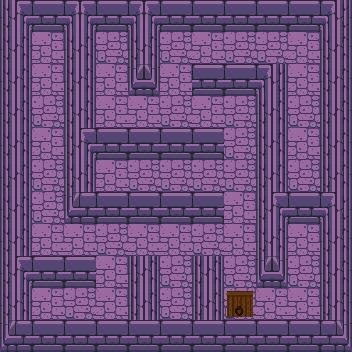
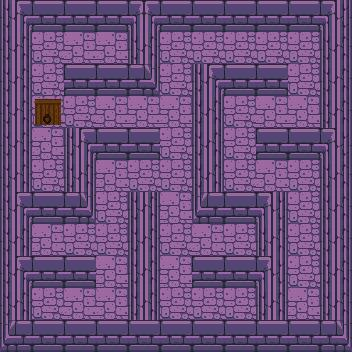
ca passse

Changed region(s): [[0.0312, 0.0938, 0.9688, 0.9062], [0.0938, 0.0, 0.4062, 0.375], [0.0938, 0.8125, 0.2812, 0.9062]]

diff --git a/mainApp.py b/mainApp.py
@@ -71,11 +71,18 @@ def interHero(size, pPng, soldier=True):
 
     hero.save("img/floor/hero.png")
 
+def interItems(size, pkey, items):
+    items = Image.new("RGBA", (size, size))
+    items.paste(pPng.cle, (0, 0))
+
+    items.save("img/floor/cle.png")
+
 def new_tail(heigth, width, size):
     laby.__init__(heigth, width)
     hero.setPosi(**laby.start)
     interHero(size, pPng, soldier=True)
     interDungeon(size, width, height, laby, pDun)
+
 
 
 if __name__ == '__main__':
@@ -108,6 +115,7 @@ if __name__ == '__main__':
         continue_jeu = True
         save_K = ''
         path_hero = "img/player/blue"
+        path_key = "img/key"
         while continue_acceuil:
             for event in pygame.event.get():
                 if event.type == QUIT or event.type == KEYDOWN and event.key == K_ESCAPE:
@@ -120,49 +128,54 @@ if __name__ == '__main__':
 
                 elif event.type == KEYDOWN:
                     if event.key == K_F1:
-                        height, width, size = 5, 5, 32
+                        height, width, size = 10, 10, 32
                         ecran = pygame.display.set_mode(((width * 2 + 1) * size, (height * 2 + 1) * size))
                         continue_acceuil = False
                         save_K = 'K_F1'
                         pDun = Photo("img/dungeon", (size, size))
                         pPng = Photo(path_hero, (size, size))
+                        pkey = Photo(path_key, (size, size))
                         new_tail(height, width, size)
 
 
                     elif event.key == K_F2:
-                        height, width, size = 10, 15, 32
+                        height, width, size = 15, 20, 25
                         ecran = pygame.display.set_mode(((width * 2 + 1) * size, (height * 2 + 1) * size))
                         continue_acceuil = False
                         save_K = 'K_F2'
                         pDun = Photo("img/dungeon", (size, size))
                         pPng = Photo(path_hero, (size, size))
+                        pkey = Photo(path_key, (size, size))
                         new_tail(height, width, size)
 
                     elif event.key == K_F3:
-                        height, width, size = 15, 25, 16
+                        height, width, size = 20, 30, 16
                         ecran = pygame.display.set_mode(((width * 2 + 1) * size, (height * 2 + 1) * size))
                         continue_acceuil = False
                         save_K = 'K_F3'
                         pDun = Photo("img/dungeon", (size, size))
                         pPng = Photo(path_hero, (size, size))
+                        pkey = Photo(path_key, (size, size))
                         new_tail(height, width, size)
 
                     elif event.key == K_F4:
-                        height, width, size = 20, 35, 10
+                        height, width, size = 30, 40, 16
                         ecran = pygame.display.set_mode(((width * 2 + 1) * size, (height * 2 + 1) * size))
                         continue_acceuil = False
                         save_K = 'K_F4'
                         pDun = Photo("img/dungeon", (size, size))
                         pPng = Photo(path_hero, (size, size))
+                        pkey = Photo(path_key, (size, size))
                         new_tail(height, width, size)
 
                     elif event.key == K_F5:
-                        height, width, size = 50, 50, 2
+                        height, width, size = 30, 60, 15
                         ecran = pygame.display.set_mode(((width * 2 + 1) * size, (height * 2 + 1) * size))
                         continue_acceuil = False
                         save_K = 'K_F5'
                         pDun = Photo("img/dungeon", (size, size))
                         pPng = Photo(path_hero, (size, size))
+                        pkey = Photo(path_key, (size, size))
                         new_tail(height, width, size)
 
                     elif event.key == K_F6:
